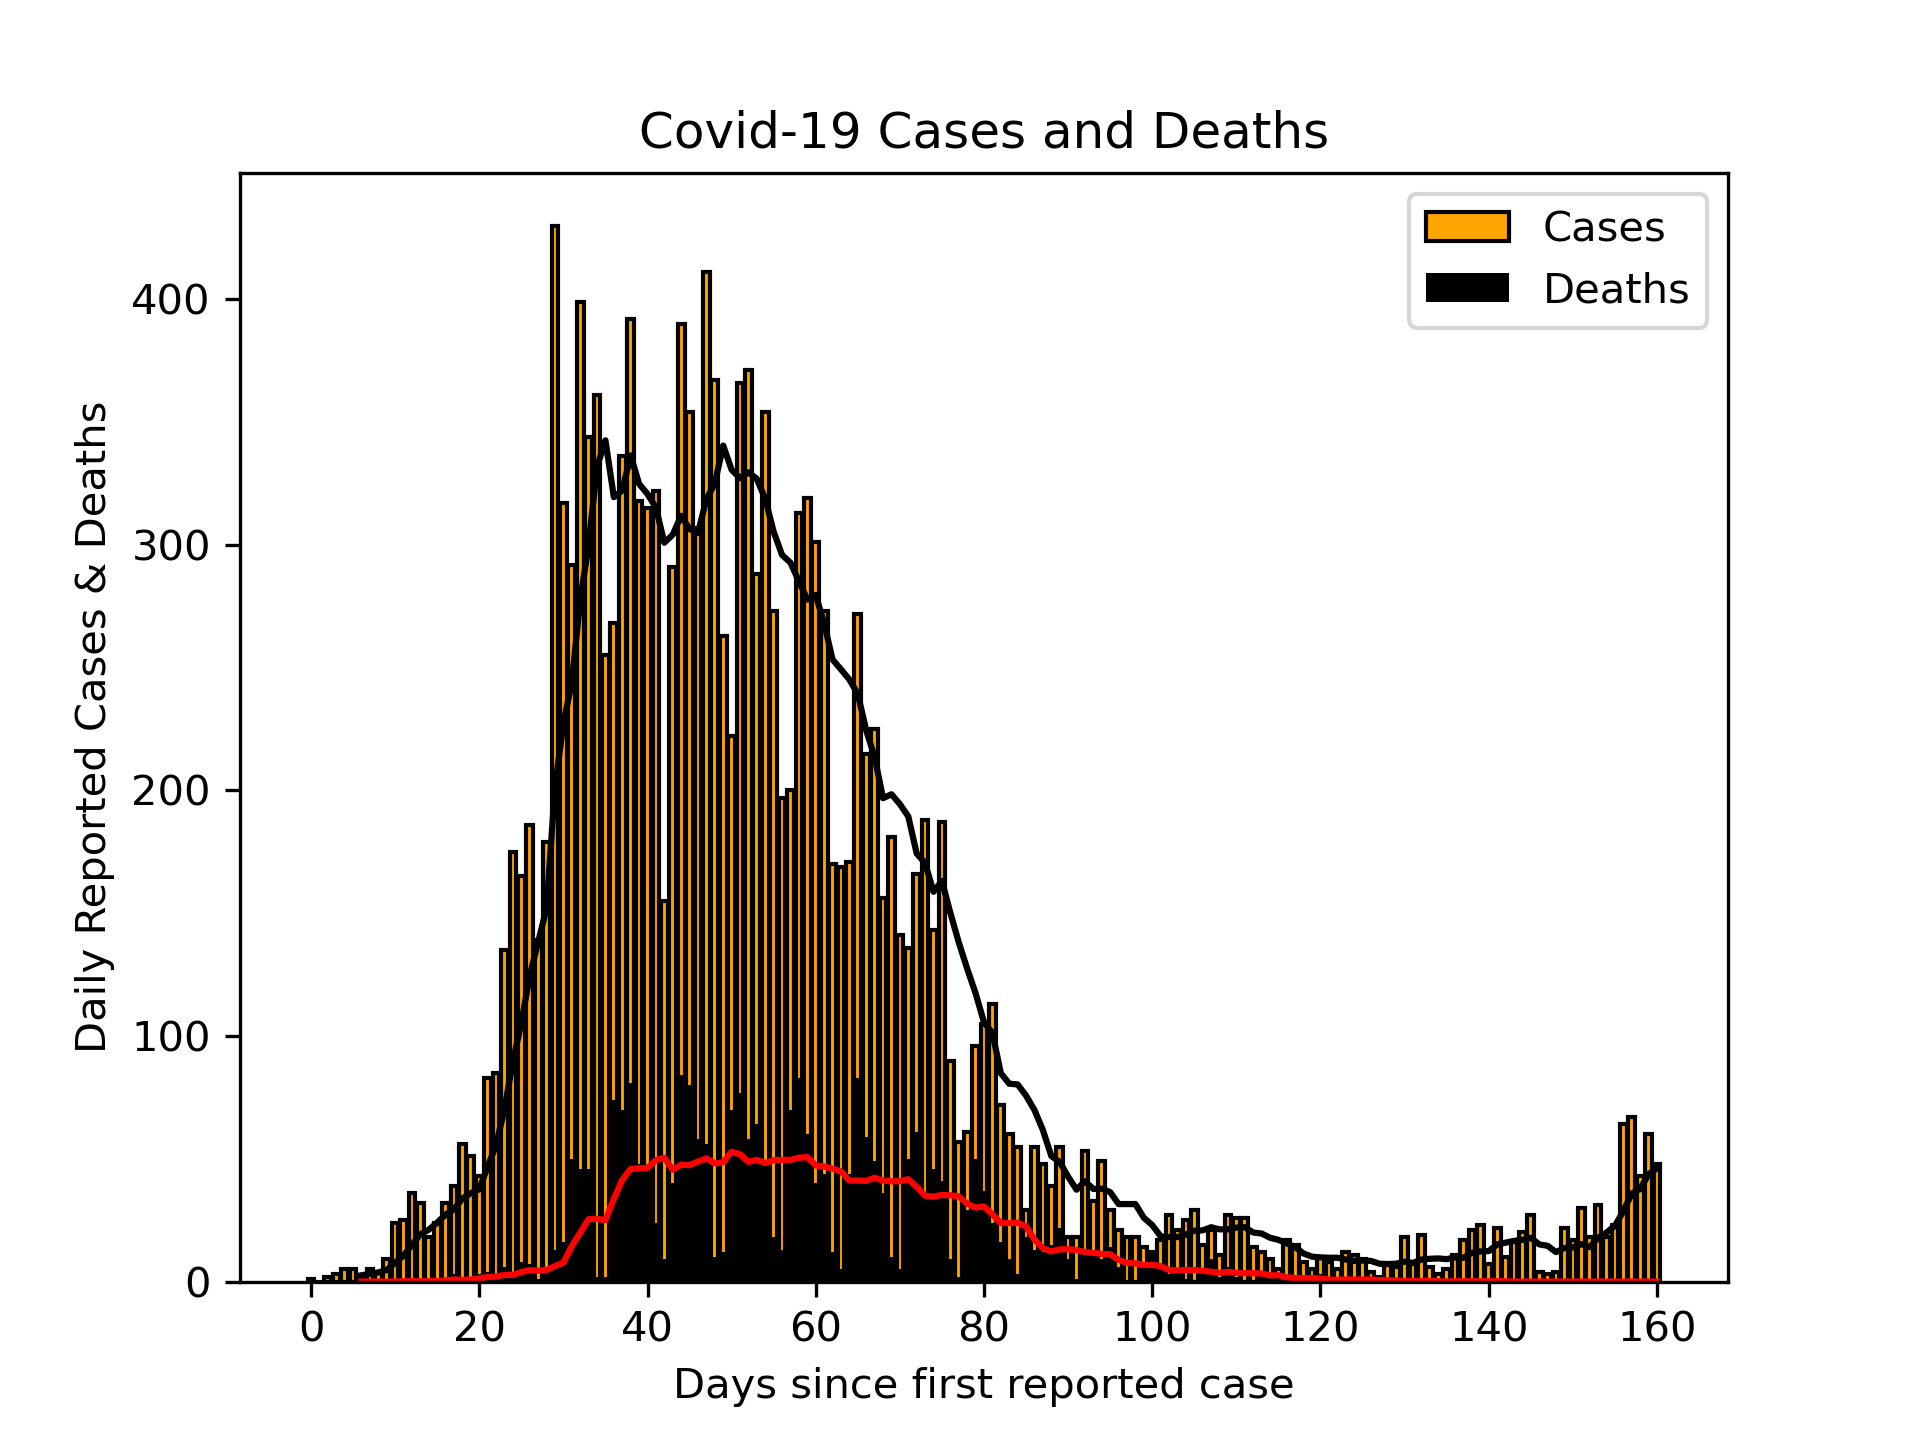
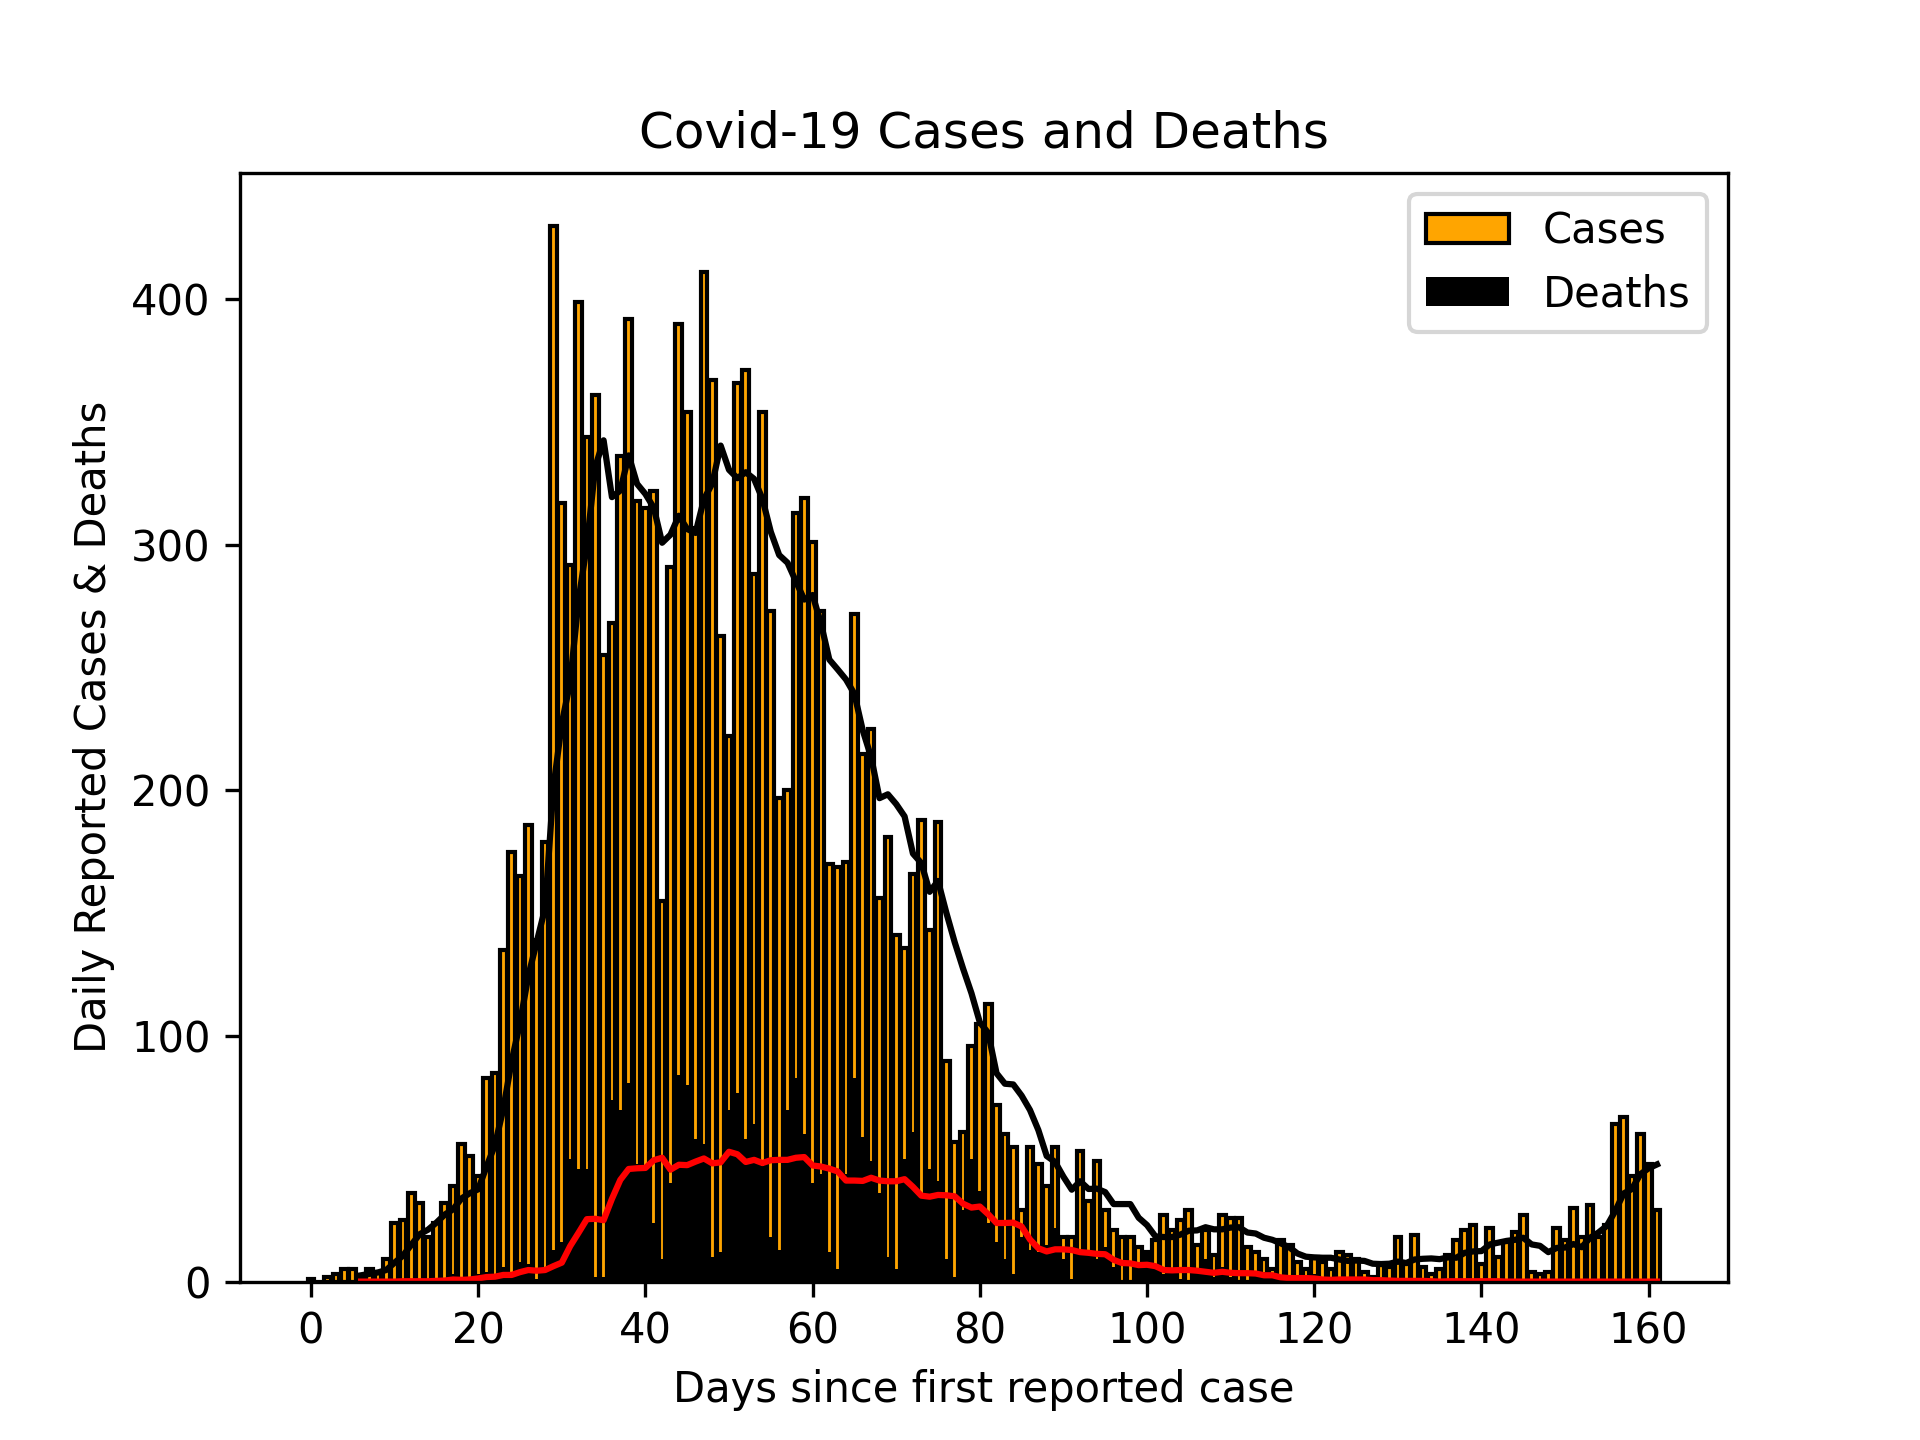
Updated Scottishcases 10/08/20

diff --git a/README.md b/README.md
@@ -1,3 +1,3 @@
-# Scottish Cases 09/08/20
+# Scottish Cases 10/08/20
 ![alt](scottish_cases.png)
 
